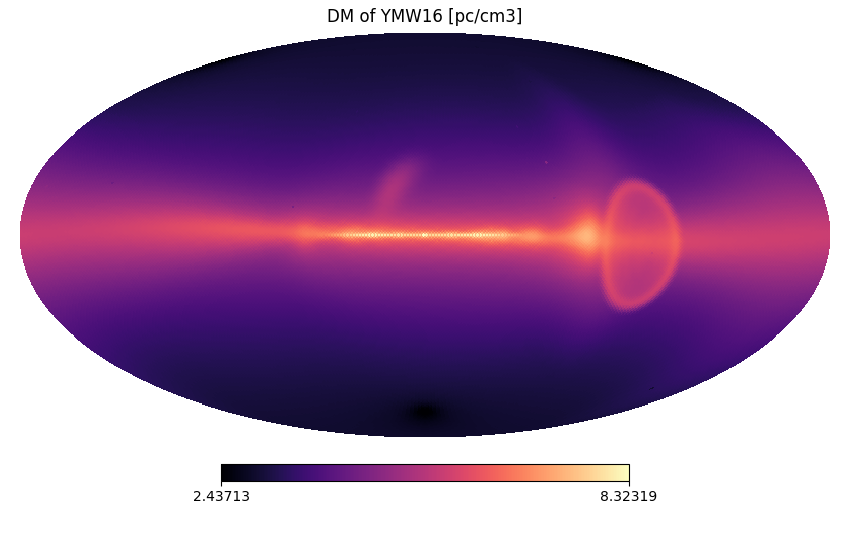
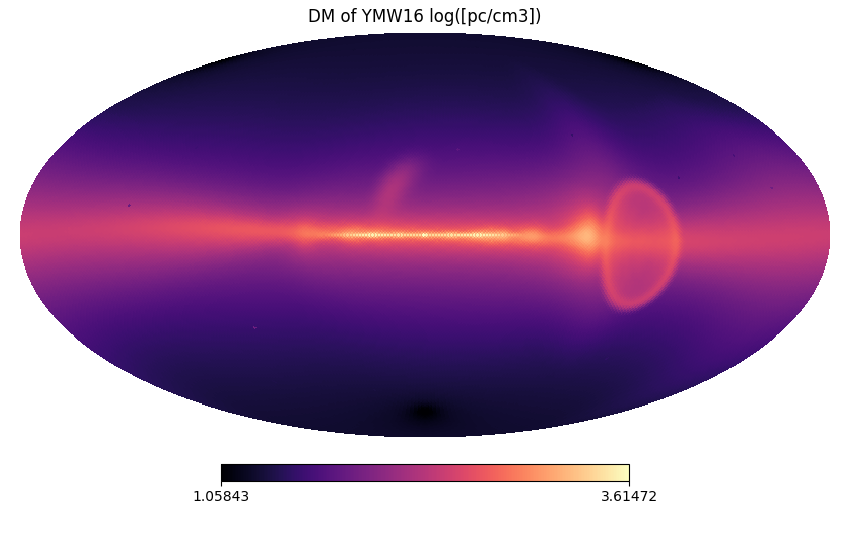
updated cpp examples, the python DM example re-run

Changed region(s): [[0.3671, 0.0, 0.6424, 0.0593], [0.7035, 0.8889, 0.7647, 0.9481], [0.2447, 0.8889, 0.3059, 0.9481]]

diff --git a/cpp/inversecompton.cpp b/cpp/inversecompton.cpp
@@ -29,8 +29,8 @@ void exampleIC() {
         int nside = 32;
         auto mask = std::make_shared<RectangularWindow>(RectangularWindow(
                         QAngle(8_deg), QAngle(-8_deg), QAngle(-80_deg), QAngle(80_deg)));
-        auto skymaps = std::make_shared<DiffFluxSkymap>(DiffFluxSkymap(nside, 100_MeV));
-        //auto skymaps = std::make_shared<DiffFluxSkymapRange>(DiffFluxSkymapRange(nside, 100_MeV, 300_GeV, 10));
+        auto skymaps = std::make_shared<GammaSkymap>(GammaSkymap(nside, 100_MeV));
+        //auto skymaps = std::make_shared<GammaSkymapRange>(GammaSkymapRange(nside, 100_MeV, 300_GeV, 10));
         skymaps->setMask(mask);
         skymaps->setIntegrator(intIC);
 

diff --git a/cpp/piondecay.cpp b/cpp/piondecay.cpp
@@ -26,7 +26,7 @@ void examplePion() {
 
 	// skymap
 	int nside = 32;
-	auto skymap = std::make_shared<DiffFluxSkymap>(DiffFluxSkymap(nside, 1_GeV));
+	auto skymap = std::make_shared<GammaSkymap>(GammaSkymap(nside, 1_GeV));
 	skymap->setIntegrator(intPiZero);
 
 	auto output = std::make_shared<FITSOutput>(FITSOutput("!example-pion.fits.gz"));

diff --git a/python/dm-ymw16-skymap.py b/python/dm-ymw16-skymap.py
@@ -16,7 +16,7 @@ output = FITSOutput("!fits/dm-ymw16-skymap.fits.gz")
 skymap.save(output)
 
 healpy.visufunc.mollview(
-        np.log(np.array(skymap)),
-        title='DM of YMW16 [pc/cm3]', cmap='magma')
+        np.log10(np.array(skymap)),
+        title='DM of YMW16 log([pc/cm3])', cmap='magma')
 
 plt.savefig('img/dm-ymw16-skymap.png')
